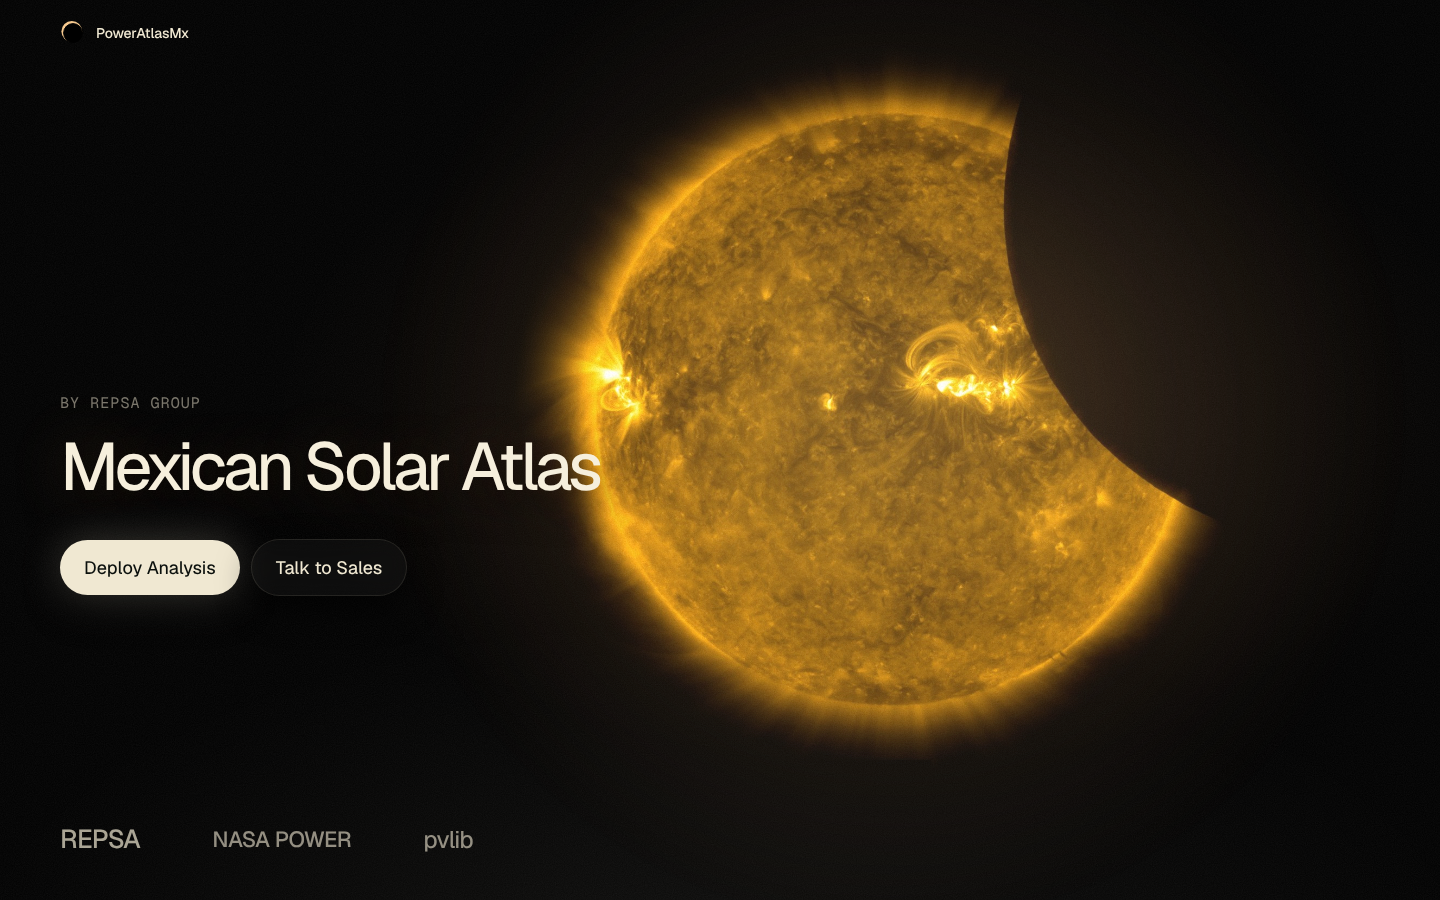
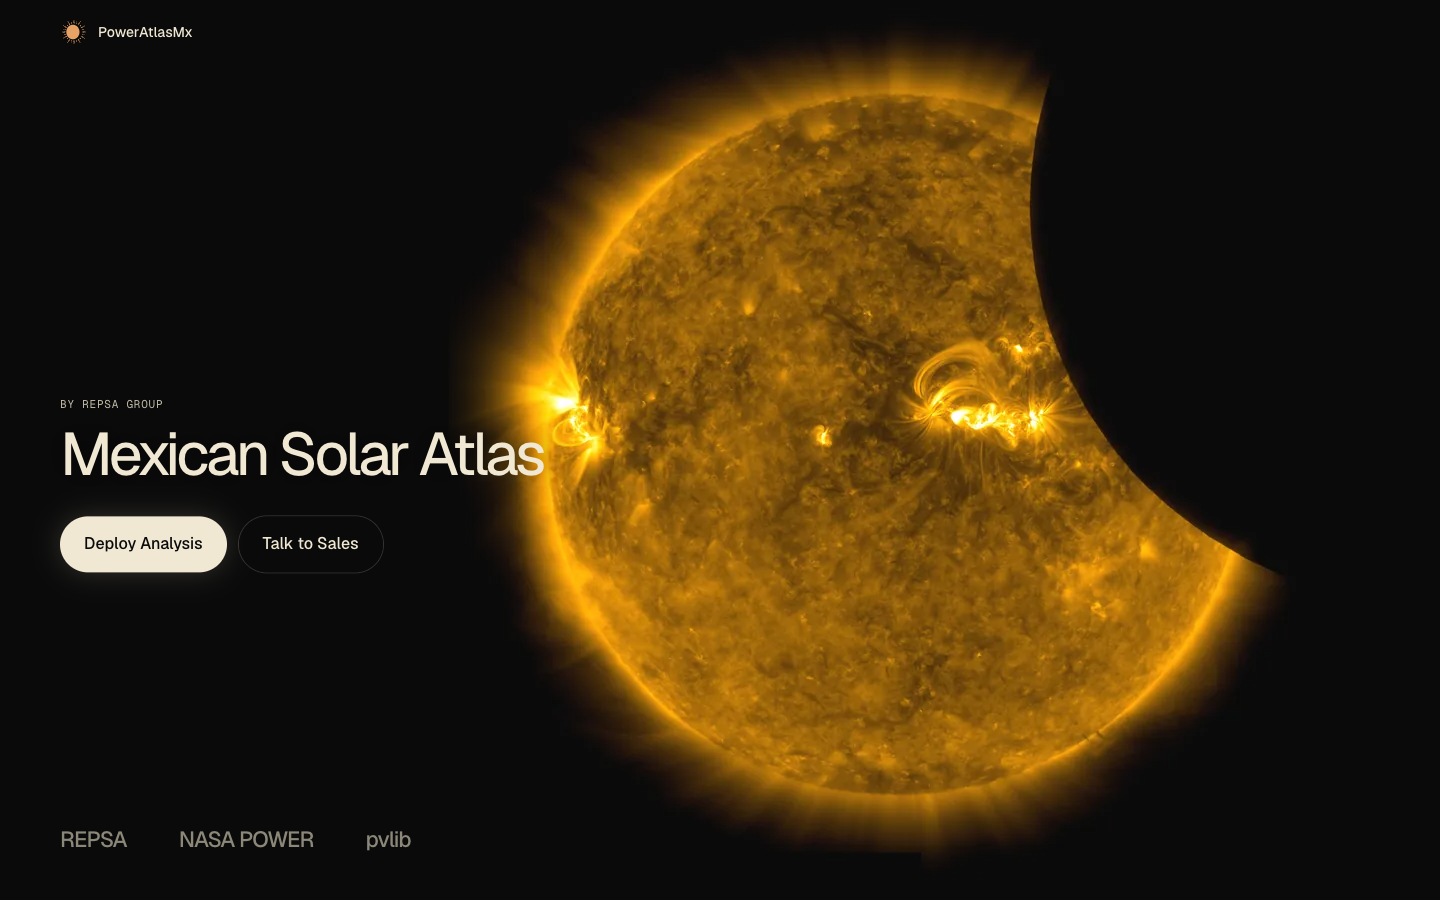
v2: hero from full-res sun

diff --git a/web/v2/assets/js/landing.js b/web/v2/assets/js/landing.js
@@ -13,7 +13,8 @@ export function renderLanding(root) {
   const email = CONFIG.CONTACT_EMAIL;
   root.innerHTML = `
   <div class="landing">
-    <img class="hero-sun" id="sun" src="assets/img/hero-sun.webp" alt="" width="1000" height="900" decoding="async" fetchpriority="high">
+    <!-- Hero image: NASA/SDO, AIA 171, 2017-08-21 19:41 UT (public domain), caption cropped. -->
+    <img class="hero-sun" id="sun" src="assets/img/hero-sun-1000.webp" srcset="assets/img/hero-sun-1000.webp 1000w, assets/img/hero-sun-2000.webp 2000w" sizes="(max-width: 900px) 560px, 1000px" alt="" width="1000" height="900" decoding="async" fetchpriority="high">
     <header class="nav">
       <a class="brand" href="#/" aria-label="${CONFIG.PRODUCT}, home">${eclipseSVG()}<span>${CONFIG.PRODUCT}</span></a>
     </header>

diff --git a/web/v2/index.html b/web/v2/index.html
@@ -7,7 +7,7 @@
 <meta name="description" content="Mexican Solar Atlas by REPSA Group. Hour-by-hour production times price for 2,431 nodes in Mexico.">
 <meta name="theme-color" content="#0A0A0A">
 <link rel="icon" type="image/svg+xml" href="assets/icons/eclipse.svg">
-<link rel="preload" href="assets/img/hero-sun.webp" as="image" type="image/webp">
+<link rel="preload" as="image" type="image/webp" href="assets/img/hero-sun-1000.webp" imagesrcset="assets/img/hero-sun-1000.webp 1000w, assets/img/hero-sun-2000.webp 2000w" imagesizes="(max-width: 900px) 560px, 1000px">
 <link rel="preload" href="assets/fonts/Geist-Variable.woff2" as="font" type="font/woff2" crossorigin>
 <link rel="stylesheet" href="assets/css/tokens.css">
 <link rel="stylesheet" href="assets/css/base.css">

diff --git a/web/v2/README.md b/web/v2/README.md
@@ -32,12 +32,11 @@ into `web/data/analysis/` (see `web/README.md`). Do not commit data files.
 - `assets/js/shell.js` owns the ONE map host (`#maphost`): hidden / full / mini. Views only attach overlays; the canvas is never remounted.
 - Page swaps use `document.startViewTransition` (the map host has its own transition name so it morphs full to mini card); without it, or with reduced motion, swaps are instant or a plain fade.
 - Landing to map: the hero sun scales up and fades while the map fades in beneath.
-- `assets/img/hero-sun.webp` is cropped from the 1x design mock (headline pixels retouched out). A clean full-resolution photo is needed for retina.
+- Hero image: NASA/SDO, AIA 171, 2017-08-21 19:41:46 UT (partial solar eclipse; NASA imagery, public domain). Source kept at `docs/referencia/sun_full.jpeg`; `assets/img/hero-sun-{1000,2000}.webp` are composed from it (caption cropped, black lifted to the page black #0A0A0A so there is no visible rectangle).
 
 ## Placeholders pending Nico
 - Landing copy is a draft pending approval.
 - Client logos (manifest is empty; strip shows REPSA, NASA POWER, pvlib as plain text wordmarks).
-- Full-resolution eclipse photo for the landing hero.
 
 ## Tests
 `node --test web/tests/contrast-v2.test.mjs` (and the full suite `node --test web/tests/*.test.mjs`).
